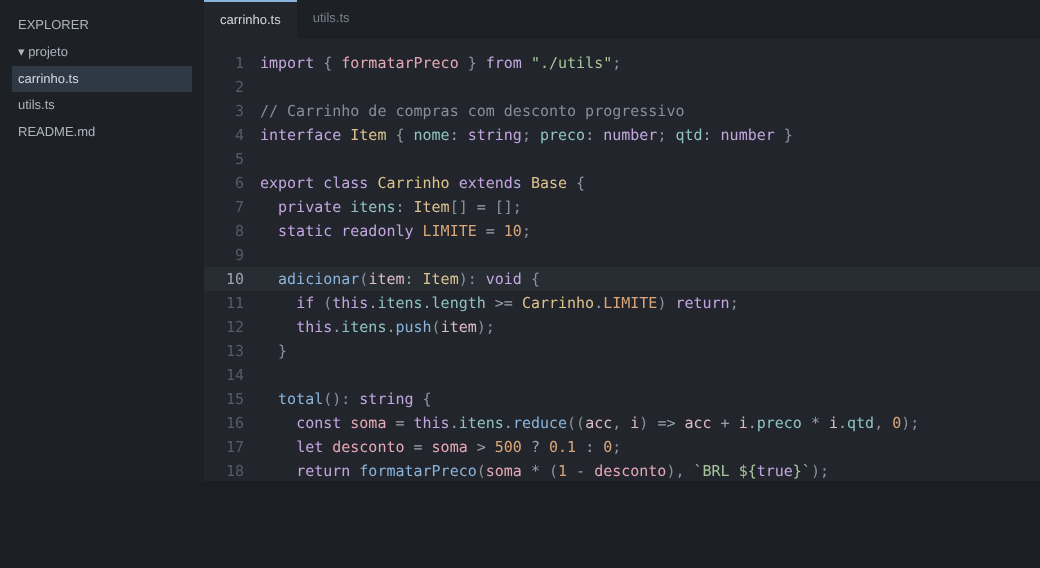
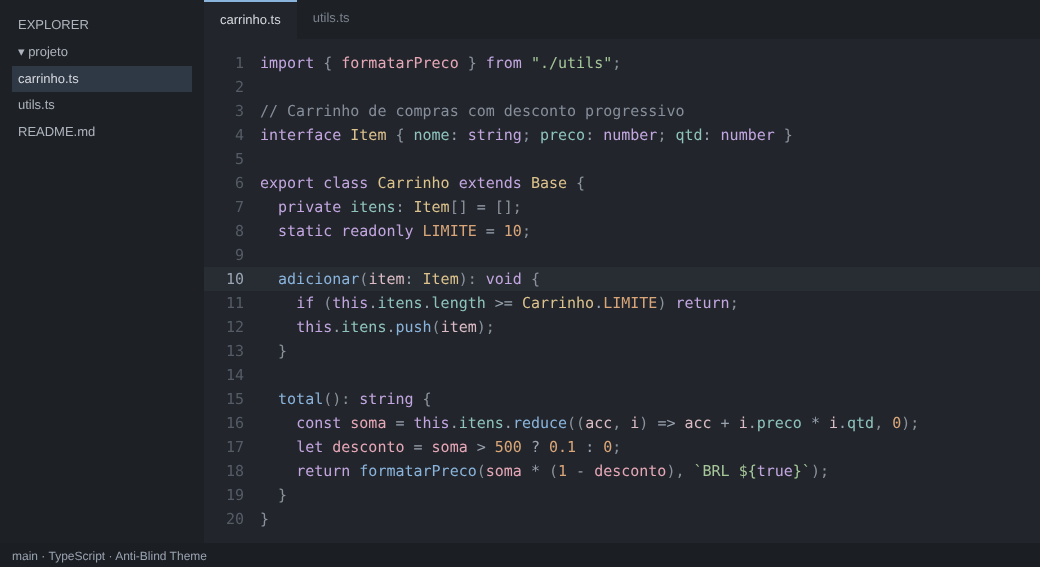
Renomeia o tema do VSCode para Anti-Blind Theme
Claude-Session: https://claude.ai/code/session_01A1ZbKDKWmvVJzn3faUxLgK

diff --git a/README.md b/README.md
@@ -29,7 +29,7 @@ Rode o script como seu usuário normal (sem `sudo` na frente): ele pede a senha 
 | Bitwarden | Flatpak (pacote oficial do Bitwarden no Flathub) |
 | [uv](https://docs.astral.sh/uv/) (Python) | instalador oficial da Astral, em `~/.local/bin` |
 | VSCode | repositório oficial da Microsoft (só se ainda não estiver instalado) |
-| Tema Linuxzada Calm Dark | copiado para `~/.vscode/extensions` |
+| Anti-Blind Theme (VSCode) | copiado para `~/.vscode/extensions` |
 | Nerd Fonts | JetBrains Mono, Fira Code, Hack, Cascadia Code (CaskaydiaCove) e Geist Mono, em `~/.local/share/fonts` |
 | Fontes extras | Inter (interface), Noto Color Emoji e Font Awesome (ícones para barras como Polybar e Waybar) |
 | Tema de ícones `Mint-Y-Dark-Aqua` | `dconf` (apenas Linux Mint/Cinnamon) |
@@ -44,4 +44,4 @@ Depois de instaladas, elas aparecem com nomes como `JetBrainsMono Nerd Font` e `
 
 ## Tema do VSCode
 
-Na pasta [`vscode-theme`](vscode-theme) tem o **Linuxzada Calm Dark**, um tema dark com cores suaves pensado para quem tem astigmatismo. Se ainda não existir um `settings.json` do VSCode, o script já cria um com o tema e a JetBrainsMono Nerd Font ativados; se existir, ele não mexe nas suas configurações. Mais detalhes no [README do tema](vscode-theme/README.md).
+Na pasta [`vscode-theme`](vscode-theme) tem o **Anti-Blind Theme**, um tema dark com cores suaves pensado para quem tem astigmatismo. Se ainda não existir um `settings.json` do VSCode, o script já cria um com o tema e a JetBrainsMono Nerd Font ativados; se existir, ele não mexe nas suas configurações. Mais detalhes no [README do tema](vscode-theme/README.md).

diff --git a/vscode-theme/README.md b/vscode-theme/README.md
@@ -1,4 +1,4 @@
-# Linuxzada Calm Dark
+# Anti-Blind Theme
 
 Tema dark para o VSCode pensado para **não cansar a vista**, principalmente de quem tem **astigmatismo**.
 
@@ -40,10 +40,10 @@ O `saving_time_install.sh` instala o VSCode (se precisar), copia o tema para `~/
 ### Manualmente
 
 ```
-cp -r vscode-theme ~/.vscode/extensions/linuxzada-calm-dark
+cp -r vscode-theme ~/.vscode/extensions/anti-blind-theme
 ```
 
-Depois reinicie o VSCode, abra a paleta de comandos (`Ctrl+Shift+P`), escolha **Preferences: Color Theme** e selecione **Linuxzada Calm Dark**.
+Depois reinicie o VSCode, abra a paleta de comandos (`Ctrl+Shift+P`), escolha **Preferences: Color Theme** e selecione **Anti-Blind Theme**.
 
 ## Dicas extras para astigmatismo
 
@@ -57,7 +57,7 @@ Algumas configurações do `settings.json` que ajudam junto com o tema:
   "editor.fontWeight": "400",
   "editor.cursorBlinking": "solid",
   "editor.renderLineHighlight": "line",
-  "workbench.colorTheme": "Linuxzada Calm Dark"
+  "workbench.colorTheme": "Anti-Blind Theme"
 }
 ```
 
